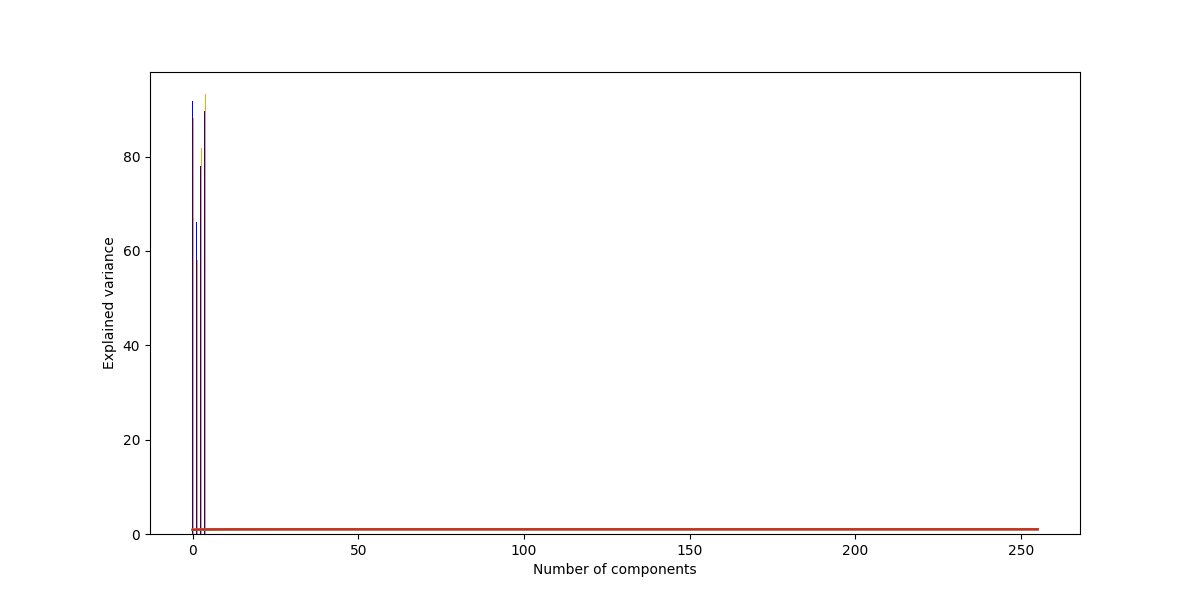
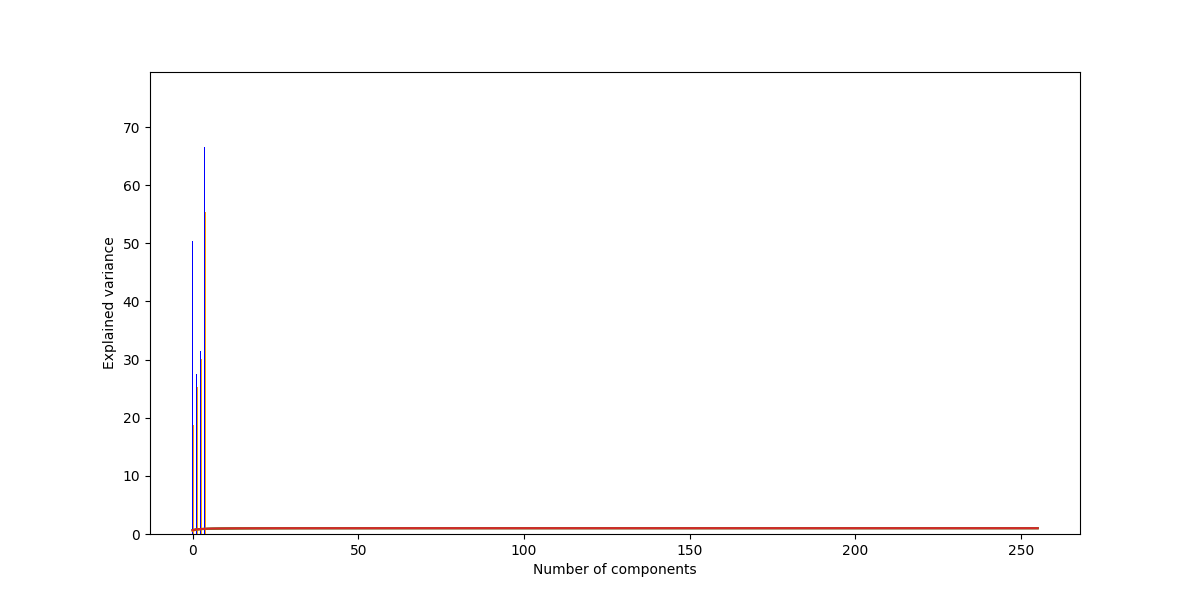
minor fix

diff --git a/check_pca_features.py b/check_pca_features.py
@@ -43,7 +43,8 @@ def process_model(cfg_path, checkpoint_path, image_tensor, use_original_hook=Fal
     mean = torch.tensor([123.675, 116.28, 103.53])
     std = torch.tensor([58.395, 57.12, 57.375])
     normalized_image_tensor = (image_tensor - mean[:, None, None]) / std[:, None, None]
-    image_input = normalized_image_tensor.unsqueeze(0)
+    #image_input = normalized_image_tensor.unsqueeze(0)
+    image_input = image_tensor.unsqueeze(0)
 
     if use_original_hook:
         hook = Hook(model.decode_head.fusion_conv)
@@ -160,6 +161,7 @@ def feature_visualize(models, input_image):
                 for j in range(n_cols):
                     filter_idx = i * n_cols + j
                     filter_kernel = group[filter_idx].numpy()
+                    print(f'filter_kernel_{group_idx}_{filter_idx}', filter_kernel.shape)
                     sub_ax = fig.add_subplot(sub_grid[i, j])
                     sub_ax.imshow(filter_kernel, cmap='gray', vmin=-1, vmax=1, interpolation='nearest')
                     sub_ax.axis('off')
@@ -320,5 +322,5 @@ def plot_histogram_2(models, input_image):
     plt.show()
     plt.close()
 
-plot_histogram_2(models, image_tensor)
+#plot_histogram_2(models, image_tensor)
 
